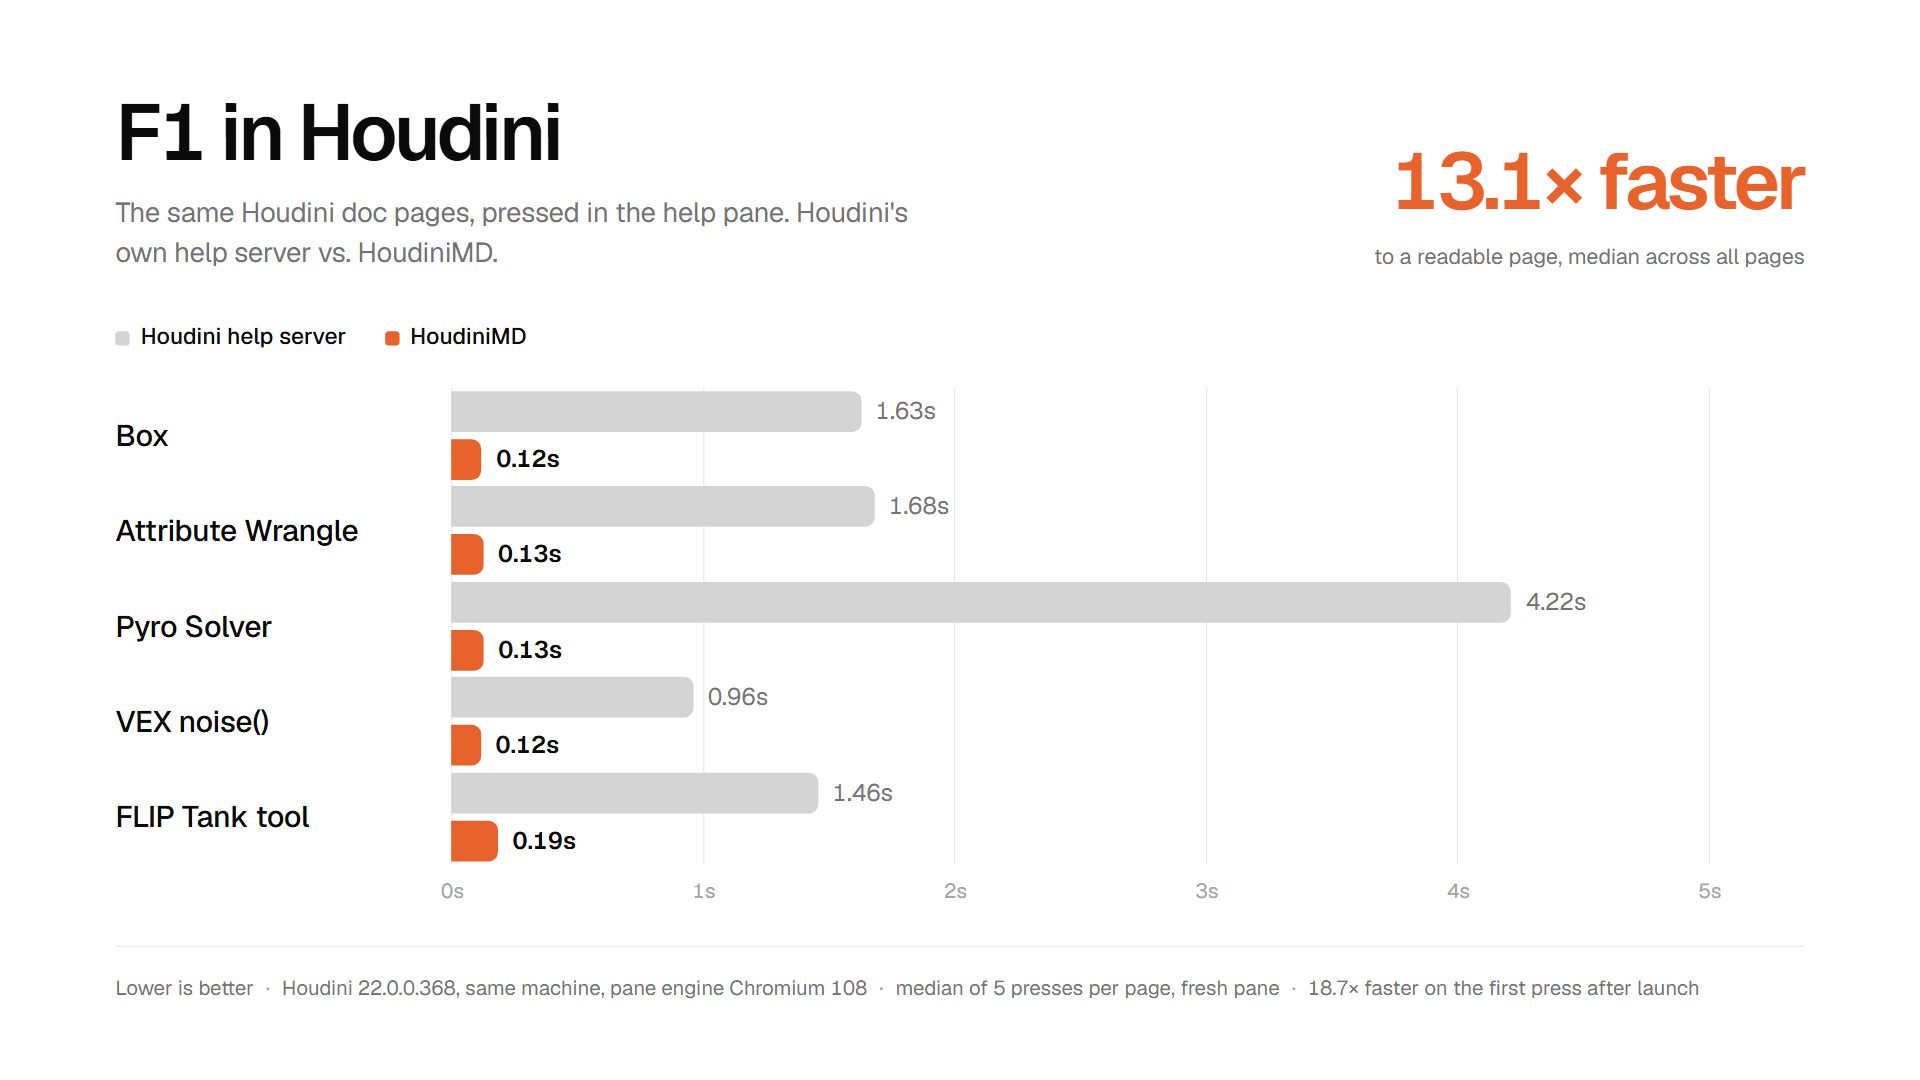
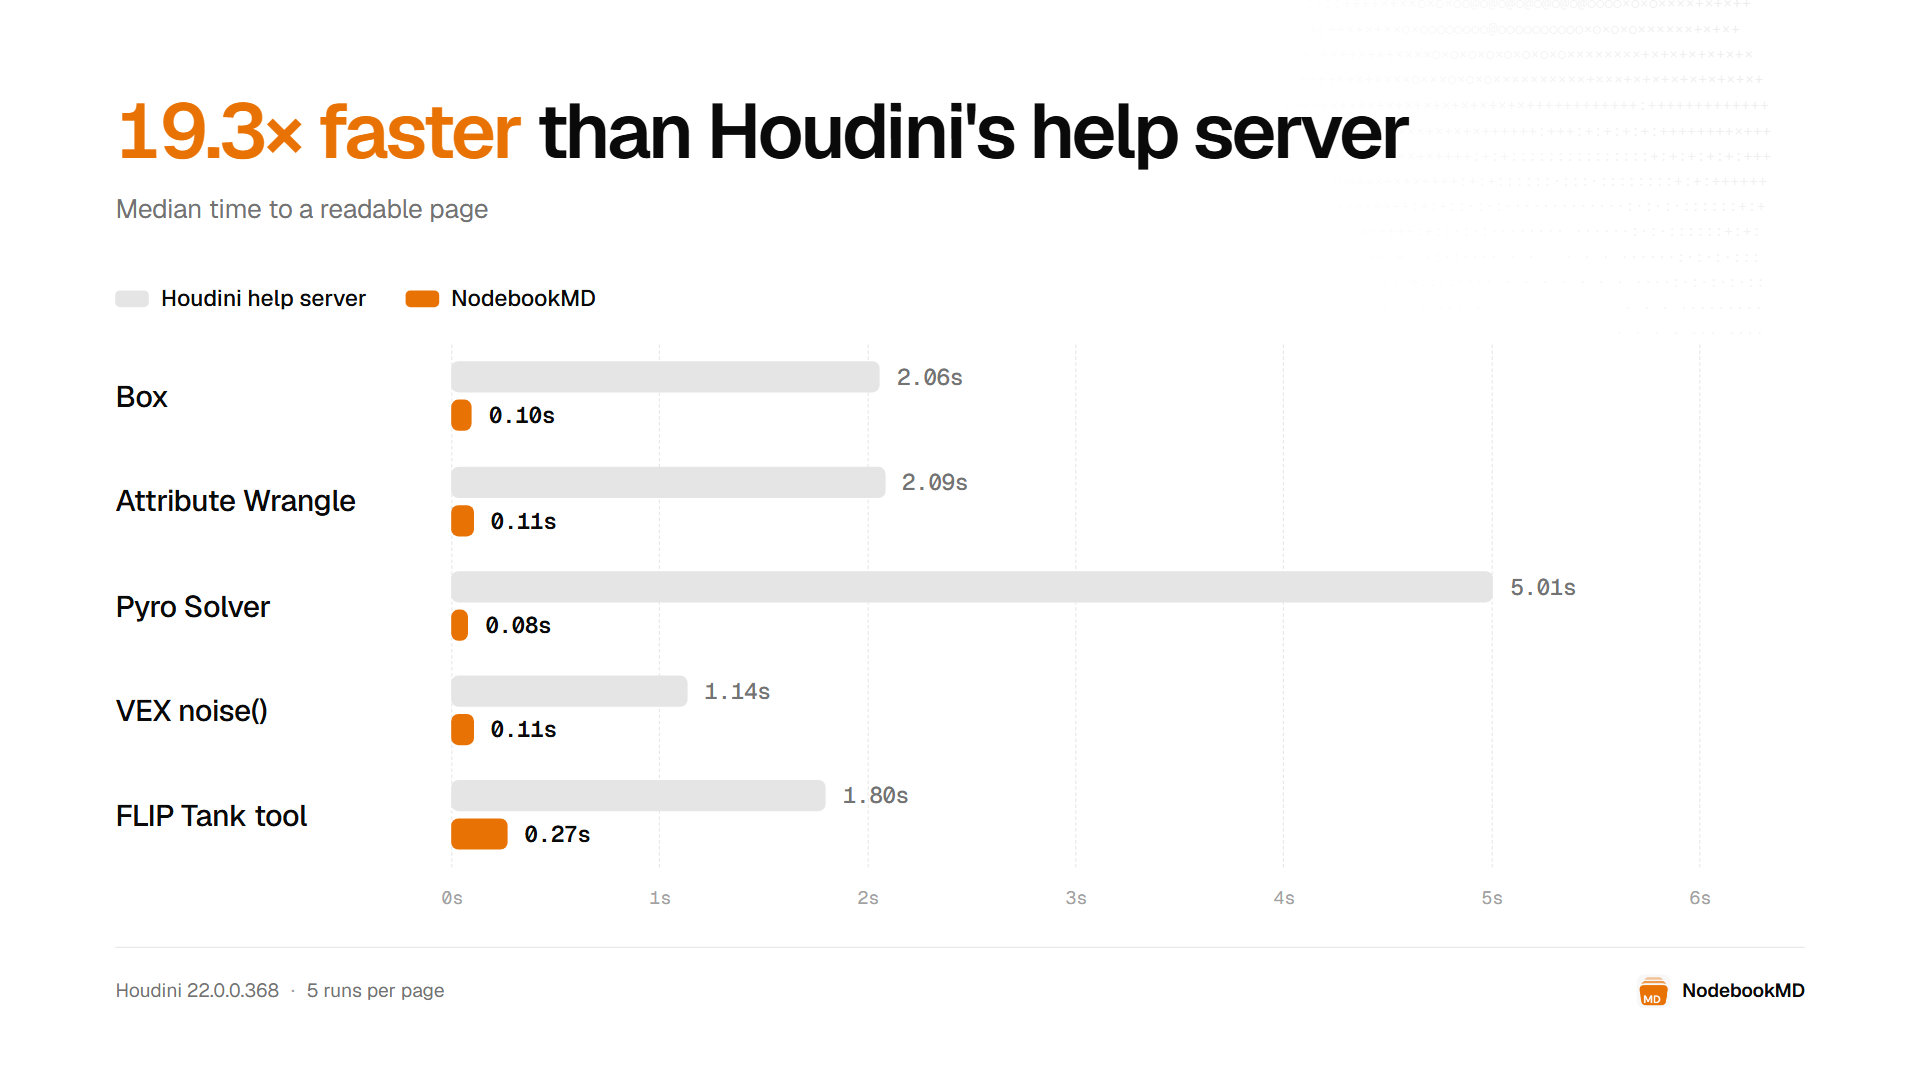
feat(chart): redraw the help-server chart in the landing page style, with a new run

diff --git a/README.md b/README.md
@@ -32,9 +32,9 @@ NodebookMD reads the same pages from your install, indexes them once, and displa
 
 ## Speed
 
-NodebookMD opens a readable page 13 times faster than Houdini's own help server.
+NodebookMD opens a readable page 19 times faster than Houdini's own help server.
 
-<img src="public/help-server-benchmark.png" alt="A bar chart of the time from F1 to a readable page in Houdini's help pane, for Houdini's own help server and for NodebookMD. NodebookMD is 13.1 times faster at the median.">
+<img src="public/help-server-benchmark.png" alt="A bar chart of the time from F1 to a readable page in Houdini's help pane, for Houdini's own help server and for NodebookMD. NodebookMD is 19.3 times faster at the median.">
 
 ## Install
 
